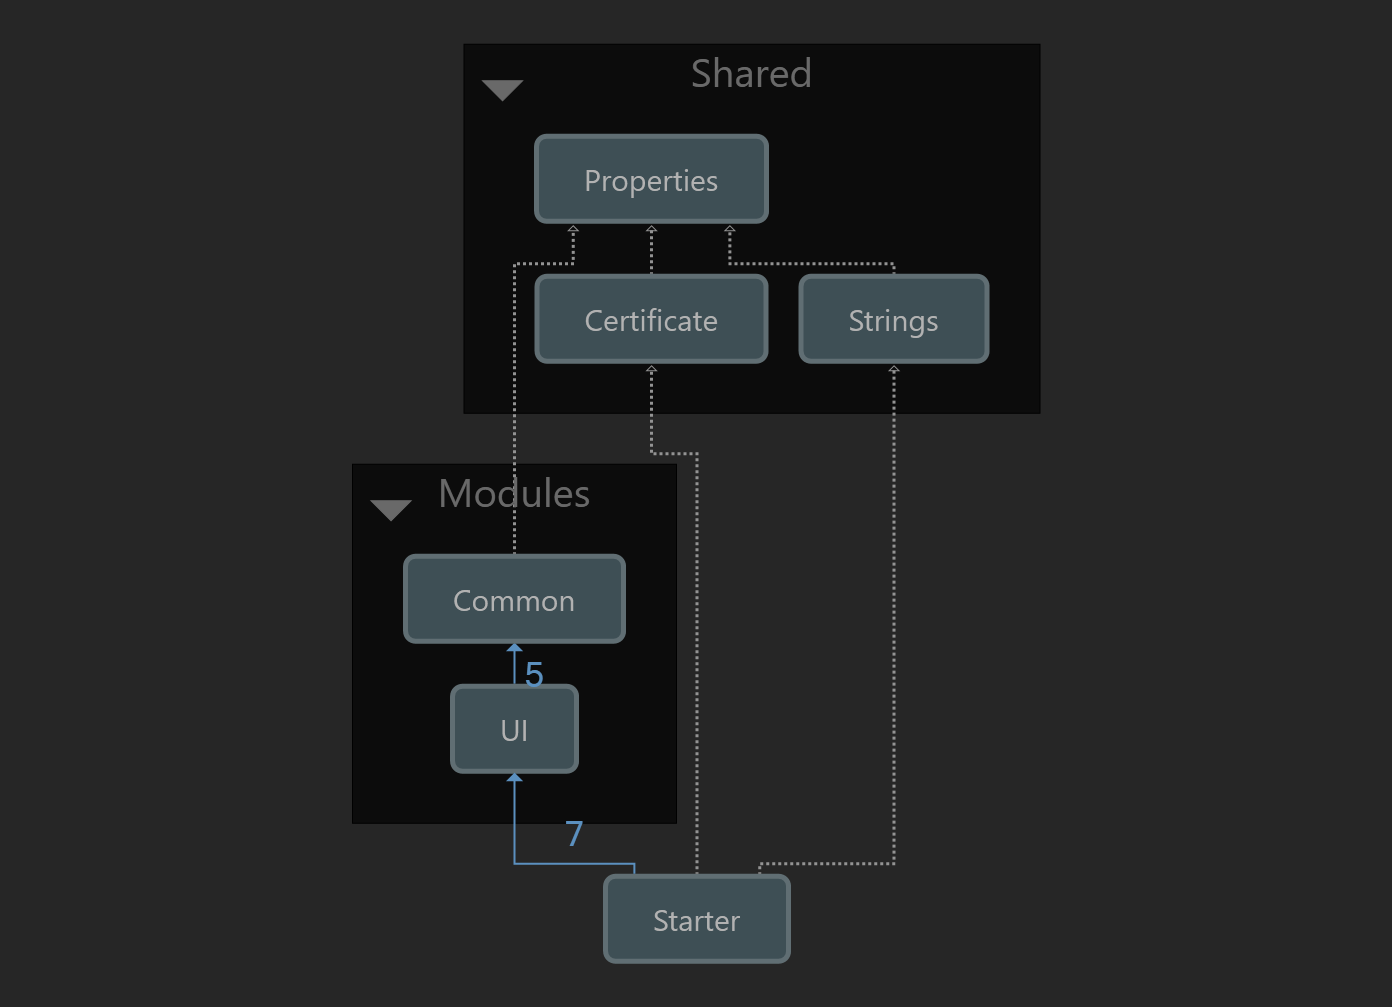
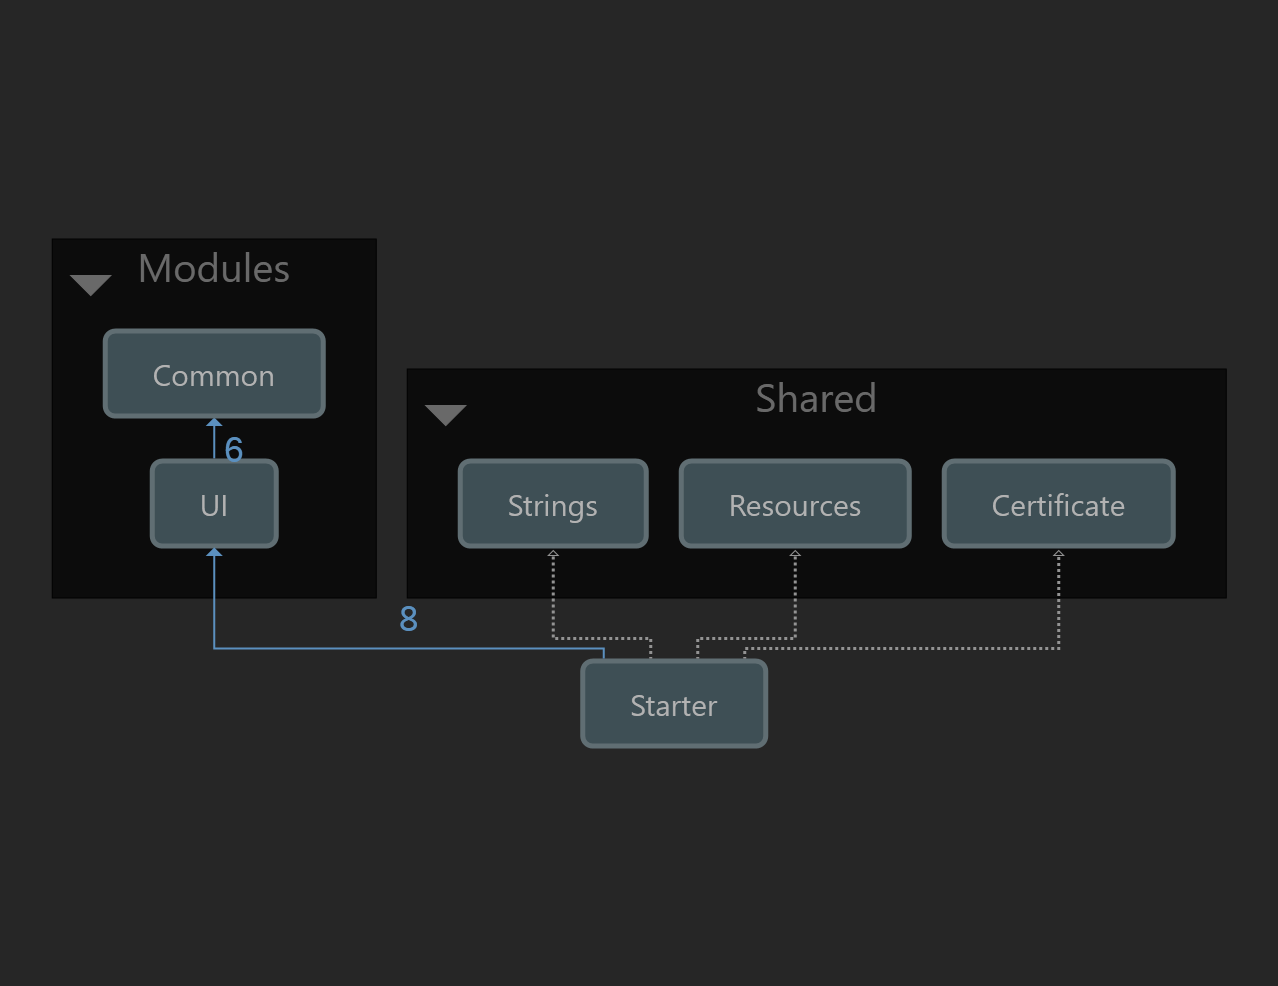
[docs] update README.md

diff --git a/README.md b/README.md
@@ -20,7 +20,7 @@ This project consists of 3 groups:
   - Library `Common`;
   - Library [`UI`](src/UI/README.md);
 - The shared sources, including:
-  - The shared assembly info `Properties`;
+  - The shared recognition resources `Resources`;
   - The shared localization `Strings`;
   - The shared `Certificate` from [MyScript Developer](https://developer.myscript.com), which is required to integrate Interactive Ink SDK.
 
